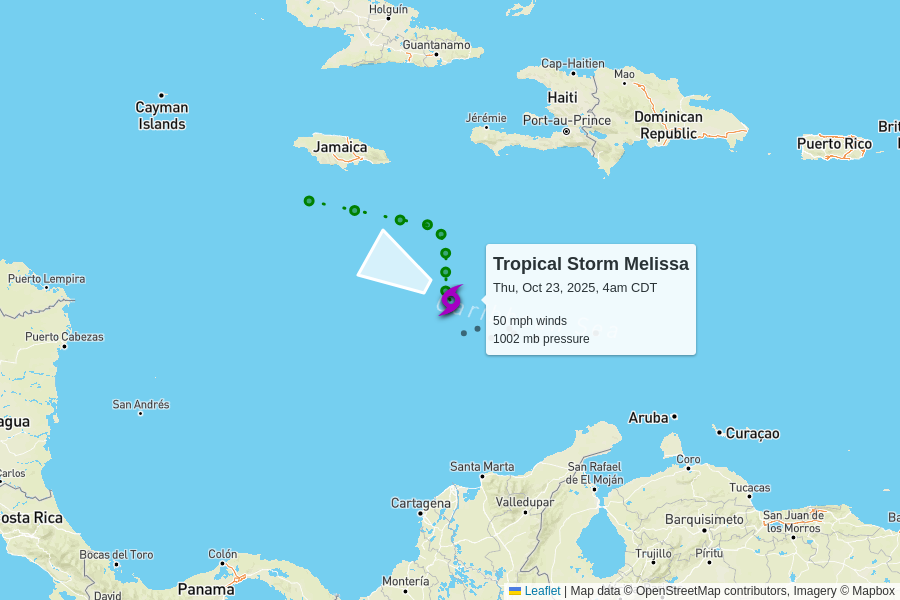
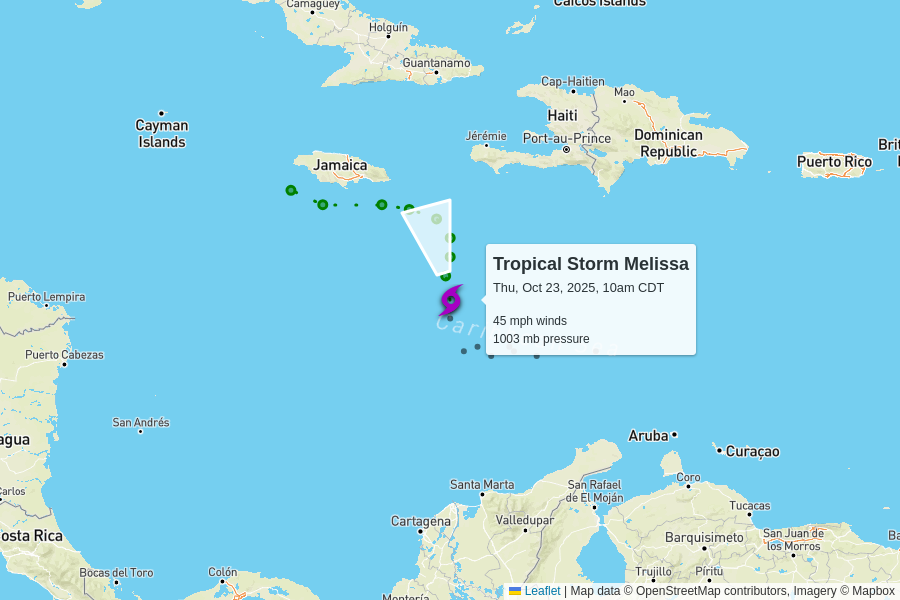
automatic update

diff --git a/docs/index.html b/docs/index.html
@@ -102,7 +102,7 @@
         <td colspan="6" class="storm category-0" >
           <h2>
             Tropical Storm Melissa
-            <p class="updated">last updated <span data-time>2025-10-23T09:00:00.000Z</span></p>
+            <p class="updated">last updated <span data-time>2025-10-23T15:00:00.000Z</span></p>
           </h2>
         </td>
       </tr>
@@ -117,12 +117,12 @@
       </tr>
       <tr>
         <td class="spacer"></td>
-        <td>50 mph<br>0 mph since last update</td>
-        <td>1002 mb<br>-1 mb since last update</td>
+        <td>45 mph<br>-5 mph since last update</td>
+        <td>1003 mb<br>+1 mb since last update</td>
         <td>
-          3 mph to the west-northwest
+          2 mph to the north-northwest
           <br/>
-          <span style="display: inline-block; font-size: 1.5em; transform: rotate(300deg);">↑</span>
+          <span style="display: inline-block; font-size: 1.5em; transform: rotate(345deg);">↑</span>
         </td>
         <td><a href="https://raw.githubusercontent.com/mgwalker/atlantic-hurricanes/main/data/csv/AL132025.csv">AL132025.csv</a></td>
         <td><a href="https://www.nhc.noaa.gov/archive/2025/MELISSA.shtml?">NHC advisories</a></td>
